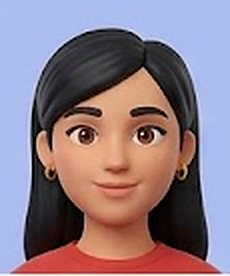
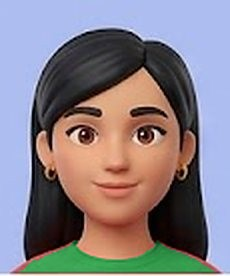
Simpler hair questions (one curly, one short), traits shown on zoom, Duaa shirt now green

Changed region(s): [[0.0609, 0.8696, 0.9435, 1.0]]

diff --git a/index.html b/index.html
@@ -458,6 +458,9 @@ html[lang="en"] .sweep b{font-family:'Baloo Bhaijaan 2',sans-serif;font-weight:8
 @keyframes sweepTxt{0%{transform:translateX(120px);opacity:0}25%{transform:translateX(0);opacity:1}72%{transform:translateX(-10px);opacity:1}100%{transform:translateX(-140px);opacity:0}}
 .fx{position:fixed;inset:0;width:100%;height:100%;z-index:70;pointer-events:none}
 @media (prefers-reduced-motion:reduce){.screen.enter,.spots i,.logo,#createBtn::after,.vs svg,.vs::before,.grid.dealing .card,.bump,.modal.on,.modal.on .sheet,.timer.low #timerNum{animation:none}.sweep{display:none}}
+.ztags{display:flex;flex-wrap:wrap;justify-content:center;gap:6px;margin:-4px 0 14px}
+.ztags:empty{display:none}
+.ztags span{background:var(--paper);border:2px solid var(--ink);border-radius:999px;padding:1px 10px;font-weight:700;font-size:.85rem}
 @media (prefers-reduced-motion:reduce){.card .in,.btn,.toast,.track i{transition:none}.pill.pop,.cf,.emo-fly,.splash-card,.log.flash{animation:none}.cf{display:none}}
 </style>
 </head>
@@ -621,6 +624,7 @@ html[lang="en"] .sweep b{font-family:'Baloo Bhaijaan 2',sans-serif;font-weight:8
 <div class="modal" id="zoomM"><div class="sheet center">
   <div class="zoom-face" id="zoomFace"></div>
   <h2 class="h2" id="zoomName"></h2>
+  <div class="ztags" id="zoomTags"></div>
   <button class="btn white" data-close data-i18n="close"></button>
 </div></div>
 
@@ -693,7 +697,7 @@ html[lang="en"] .sweep b{font-family:'Baloo Bhaijaan 2',sans-serif;font-weight:8
 <script>
 (() => {
 'use strict';
-const DECK = [{"s":"m","dark":false,"hj":false,"bald":true,"curly":false,"tied":false,"hc":"grey","e":"blue","gl":"square","beard":true,"mus":true,"cap":false,"ear":false,"frk":false,"sh":"yellow","n":["أحمد","Ahmad"],"wavy":false,"hl":"none"},{"s":"m","dark":true,"hj":false,"bald":true,"curly":false,"tied":false,"hc":null,"e":"brown","gl":"none","beard":false,"mus":false,"cap":false,"ear":false,"frk":false,"sh":"red","n":["محمود","Mahmoud"],"wavy":false,"hl":"none"},{"s":"f","dark":false,"hj":false,"bald":false,"curly":false,"tied":false,"hc":"grey","e":"blue","gl":"round","beard":false,"mus":false,"cap":false,"ear":false,"frk":false,"sh":"blue","n":["سارة","Sara"],"wavy":false,"hl":"mid"},{"s":"m","dark":true,"hj":false,"bald":false,"curly":true,"tied":false,"hc":"grey","e":"brown","gl":"none","beard":false,"mus":true,"cap":false,"ear":false,"frk":false,"sh":"green","n":["يوسف","Yousef"],"wavy":false,"hl":"short"},{"s":"m","dark":true,"hj":false,"bald":false,"curly":false,"tied":false,"hc":"black","e":"green","gl":"none","beard":false,"mus":true,"cap":false,"ear":false,"frk":false,"sh":"blue","n":["خالد","Khaled"],"wavy":false,"hl":"short"},{"s":"f","dark":true,"hj":true,"bald":false,"curly":false,"tied":false,"hc":null,"e":"brown","gl":"none","beard":false,"mus":false,"cap":false,"ear":false,"frk":false,"sh":"red","n":["ليلى","Layla"],"wavy":false,"hl":"none"},{"s":"f","dark":true,"hj":false,"bald":false,"curly":false,"tied":true,"hc":"black","e":"brown","gl":"none","beard":false,"mus":false,"cap":false,"ear":false,"frk":false,"sh":"yellow","n":["نور","Nour"],"wavy":false,"hl":"tied"},{"s":"m","dark":false,"hj":false,"bald":true,"curly":false,"tied":false,"hc":"grey","e":"green","gl":"square","beard":true,"mus":true,"cap":false,"ear":false,"frk":false,"sh":"green","n":["عمر","Omar"],"wavy":false,"hl":"none"},{"s":"m","dark":false,"hj":false,"bald":true,"curly":false,"tied":false,"hc":null,"e":"blue","gl":"none","beard":false,"mus":true,"cap":false,"ear":false,"frk":true,"sh":"green","n":["سامي","Sami"],"wavy":false,"hl":"none"},{"s":"m","dark":false,"hj":false,"bald":false,"curly":false,"tied":false,"hc":"blonde","e":"blue","gl":"none","beard":false,"mus":false,"cap":false,"ear":false,"frk":false,"sh":"red","n":["رامي","Rami"],"wavy":false,"hl":"short"},{"s":"m","dark":false,"hj":false,"bald":false,"curly":false,"tied":false,"hc":"black","e":"brown","gl":"none","beard":false,"mus":false,"cap":true,"ear":false,"frk":false,"sh":"green","n":["باسل","Basel"],"wavy":false,"hl":"short"},{"s":"f","dark":false,"hj":false,"bald":false,"curly":false,"tied":false,"hc":"blonde","e":"blue","gl":"none","beard":false,"mus":false,"cap":false,"ear":false,"frk":false,"sh":"green","n":["هبة","Hiba"],"wavy":false,"hl":"mid"},{"s":"f","dark":true,"hj":true,"bald":false,"curly":false,"tied":false,"hc":null,"e":"brown","gl":"none","beard":false,"mus":false,"cap":false,"ear":false,"frk":false,"sh":"blue","n":["ريم","Reem"],"wavy":false,"hl":"none"},{"s":"f","dark":false,"hj":false,"bald":false,"curly":false,"tied":false,"hc":"brown","e":"brown","gl":"none","beard":false,"mus":false,"cap":false,"ear":true,"frk":true,"sh":"red","n":["دانة","Dana"],"wavy":false,"hl":"long"},{"s":"m","dark":false,"hj":false,"bald":false,"curly":false,"tied":true,"hc":"black","e":"brown","gl":"none","beard":true,"mus":true,"cap":false,"ear":false,"frk":false,"sh":"blue","n":["فادي","Fadi"],"wavy":false,"hl":"tied"},{"s":"m","dark":false,"hj":false,"bald":false,"curly":true,"tied":false,"hc":"red","e":"green","gl":"none","beard":false,"mus":false,"cap":false,"ear":false,"frk":true,"sh":"blue","n":["زياد","Ziad"],"wavy":false,"hl":"short"},{"s":"f","dark":false,"hj":true,"bald":false,"curly":false,"tied":false,"hc":"grey","e":"blue","gl":"none","beard":false,"mus":false,"cap":false,"ear":false,"frk":false,"sh":"yellow","n":["لينا","Lina"],"wavy":false,"hl":"none"},{"s":"f","dark":true,"hj":false,"bald":false,"curly":false,"tied":true,"hc":"black","e":"green","gl":"none","beard":false,"mus":false,"cap":false,"ear":true,"frk":false,"sh":"blue","n":["مريم","Maryam"],"wavy":false,"hl":"long"},{"s":"f","dark":false,"hj":false,"bald":false,"curly":false,"tied":false,"hc":"black","e":"brown","gl":"none","beard":false,"mus":false,"cap":false,"ear":true,"frk":false,"sh":"red","n":["رنا","Rana"],"wavy":true,"hl":"long"},{"s":"m","dark":true,"hj":false,"bald":false,"curly":true,"tied":false,"hc":"black","e":"brown","gl":"square","beard":true,"mus":true,"cap":false,"ear":false,"frk":false,"sh":"red","n":["مازن","Mazen"],"wavy":false,"hl":"short"},{"s":"m","dark":false,"hj":false,"bald":false,"curly":false,"tied":false,"hc":"blonde","e":"green","gl":"round","beard":false,"mus":true,"cap":false,"ear":false,"frk":false,"sh":"green","n":["طارق","Tareq"],"wavy":false,"hl":"short"},{"s":"f","dark":false,"hj":true,"bald":false,"curly":false,"tied":false,"hc":null,"e":"blue","gl":"round","beard":false,"mus":false,"cap":false,"ear":false,"frk":false,"sh":"green","n":["سلمى","Salma"],"wavy":false,"hl":"none"},{"s":"f","dark":false,"hj":false,"bald":false,"curly":false,"tied":true,"hc":"red","e":"green","gl":"none","beard":false,"mus":false,"cap":false,"ear":true,"frk":true,"sh":"yellow","n":["جنى","Jana"],"wavy":false,"hl":"tied"},{"s":"f","dark":true,"hj":false,"bald":false,"curly":true,"tied":false,"hc":"black","e":"green","gl":"none","beard":false,"mus":false,"cap":false,"ear":true,"frk":false,"sh":"red","n":["هالة","Hala"],"wavy":false,"hl":"mid"},{"s":"f","dark":false,"hj":true,"bald":false,"curly":false,"tied":false,"hc":null,"e":"brown","gl":"none","beard":false,"mus":false,"cap":false,"ear":false,"frk":false,"sh":"yellow","n":["ياسمين","Yasmin"],"wavy":false,"hl":"none"},{"s":"f","dark":false,"hj":false,"bald":false,"curly":true,"tied":false,"hc":"red","e":"green","gl":"none","beard":false,"mus":false,"cap":false,"ear":true,"frk":true,"sh":"green","n":["رهف","Rahaf"],"wavy":false,"hl":"mid"},{"s":"m","dark":false,"hj":false,"bald":false,"curly":true,"tied":false,"hc":"grey","e":"blue","gl":"round","beard":true,"mus":true,"cap":false,"ear":false,"frk":false,"sh":"yellow","n":["نادر","Nader"],"wavy":false,"hl":"short"},{"s":"f","dark":false,"hj":false,"bald":false,"curly":false,"tied":false,"hc":"black","e":"brown","gl":"none","beard":false,"mus":false,"cap":false,"ear":true,"frk":false,"sh":"red","n":["دعاء","Duaa"],"wavy":false,"hl":"long"},{"s":"f","dark":false,"hj":false,"bald":false,"curly":false,"tied":false,"hc":"brown","e":"brown","gl":"round","beard":false,"mus":false,"cap":false,"ear":true,"frk":false,"sh":"blue","n":["آية","Aya"],"wavy":false,"hl":"mid"},{"s":"m","dark":false,"hj":false,"bald":false,"curly":false,"tied":false,"hc":"grey","e":"blue","gl":"none","beard":true,"mus":true,"cap":false,"ear":false,"frk":false,"sh":"blue","n":["وسيم","Wasim"],"wavy":false,"hl":"short"},{"s":"m","dark":false,"hj":false,"bald":false,"curly":true,"tied":false,"hc":"brown","e":"brown","gl":"round","beard":true,"mus":true,"cap":false,"ear":false,"frk":false,"sh":"red","n":["هاني","Hani"],"wavy":false,"hl":"short"},{"s":"m","dark":true,"hj":false,"bald":false,"curly":false,"tied":false,"hc":"black","e":"brown","gl":"none","beard":false,"mus":false,"cap":true,"ear":false,"frk":false,"sh":"yellow","n":["إياد","Iyad"],"wavy":false,"hl":"short"},{"s":"m","dark":false,"hj":false,"bald":false,"curly":false,"tied":false,"hc":"blonde","e":"blue","gl":"none","beard":true,"mus":true,"cap":false,"ear":false,"frk":false,"sh":"red","n":["كريم","Karim"],"wavy":false,"hl":"short"},{"s":"f","dark":false,"hj":false,"bald":false,"curly":false,"tied":true,"hc":"red","e":"blue","gl":"none","beard":false,"mus":false,"cap":false,"ear":true,"frk":true,"sh":"blue","n":["منى","Mona"],"wavy":false,"hl":"long"},{"s":"m","dark":false,"hj":false,"bald":false,"curly":false,"tied":false,"hc":"grey","e":"blue","gl":"square","beard":true,"mus":true,"cap":false,"ear":false,"frk":false,"sh":"yellow","n":["سليم","Salim"],"wavy":false,"hl":"short"},{"s":"f","dark":false,"hj":false,"bald":false,"curly":false,"tied":false,"hc":"brown","e":"brown","gl":"none","beard":false,"mus":false,"cap":false,"ear":true,"frk":false,"sh":"green","n":["سماح","Samah"],"wavy":false,"hl":"mid"},{"s":"f","dark":false,"hj":false,"bald":false,"curly":false,"tied":true,"hc":"grey","e":"blue","gl":"round","beard":false,"mus":false,"cap":false,"ear":true,"frk":false,"sh":"blue","n":["لمى","Lama"],"wavy":false,"hl":"tied"},{"s":"f","dark":false,"hj":false,"bald":false,"curly":false,"tied":false,"hc":"black","e":"brown","gl":"none","beard":false,"mus":false,"cap":false,"ear":true,"frk":false,"sh":"blue","n":["تالا","Tala"],"wavy":false,"hl":"long"},{"s":"m","dark":false,"hj":false,"bald":false,"curly":false,"tied":false,"hc":"brown","e":"brown","gl":"none","beard":true,"mus":true,"cap":false,"ear":false,"frk":false,"sh":"red","n":["جمال","Jamal"],"wavy":false,"hl":"short"},{"s":"f","dark":false,"hj":false,"bald":false,"curly":false,"tied":true,"hc":"red","e":"green","gl":"none","beard":false,"mus":false,"cap":false,"ear":true,"frk":true,"sh":"red","n":["رزان","Razan"],"wavy":false,"hl":"tied"},{"s":"f","dark":false,"hj":false,"bald":false,"curly":false,"tied":false,"hc":"grey","e":"brown","gl":"none","beard":false,"mus":false,"cap":false,"ear":true,"frk":true,"sh":"green","n":["شهد","Shahd"],"wavy":false,"hl":"short"},{"s":"m","dark":false,"hj":false,"bald":false,"curly":false,"tied":false,"hc":"grey","e":"blue","gl":"round","beard":false,"mus":false,"cap":false,"ear":false,"frk":false,"sh":"red","n":["ماهر","Maher"],"wavy":false,"hl":"short"},{"s":"m","dark":false,"hj":false,"bald":false,"curly":false,"tied":false,"hc":"brown","e":"brown","gl":"none","beard":true,"mus":true,"cap":false,"ear":false,"frk":false,"sh":"yellow","n":["حسن","Hasan"],"wavy":false,"hl":"short"},{"s":"m","dark":true,"hj":false,"bald":false,"curly":false,"tied":false,"hc":"black","e":"brown","gl":"none","beard":false,"mus":false,"cap":false,"ear":false,"frk":false,"sh":"red","n":["علي","Ali"],"wavy":false,"hl":"short"},{"s":"m","dark":false,"hj":false,"bald":false,"curly":false,"tied":false,"hc":"brown","e":"brown","gl":"none","beard":false,"mus":false,"cap":false,"ear":false,"frk":true,"sh":"red","n":["بلال","Bilal"],"wavy":false,"hl":"short"},{"s":"f","dark":true,"hj":true,"bald":false,"curly":false,"tied":false,"hc":null,"e":"blue","gl":"none","beard":false,"mus":false,"cap":false,"ear":false,"frk":false,"sh":"blue","n":["غدير","Ghadeer"],"wavy":false,"hl":"none"},{"s":"m","dark":false,"hj":false,"bald":false,"curly":false,"tied":false,"hc":"grey","e":"brown","gl":"none","beard":true,"mus":true,"cap":false,"ear":false,"frk":true,"sh":"red","n":["أنس","Anas"],"wavy":false,"hl":"short"},{"s":"f","dark":false,"hj":false,"bald":false,"curly":false,"tied":false,"hc":"grey","e":"blue","gl":"round","beard":false,"mus":false,"cap":false,"ear":true,"frk":false,"sh":"yellow","n":["بيسان","Bisan"],"wavy":true,"hl":"mid"}];
+const DECK = [{"s":"m","dark":false,"hj":false,"bald":true,"curly":false,"tied":false,"hc":"grey","e":"blue","gl":"square","beard":true,"mus":true,"cap":false,"ear":false,"frk":false,"sh":"yellow","n":["أحمد","Ahmad"],"short":false},{"s":"m","dark":true,"hj":false,"bald":true,"curly":false,"tied":false,"hc":null,"e":"brown","gl":"none","beard":false,"mus":false,"cap":false,"ear":false,"frk":false,"sh":"red","n":["محمود","Mahmoud"],"short":false},{"s":"f","dark":false,"hj":false,"bald":false,"curly":false,"tied":false,"hc":"grey","e":"blue","gl":"round","beard":false,"mus":false,"cap":false,"ear":false,"frk":false,"sh":"blue","n":["سارة","Sara"],"short":false},{"s":"m","dark":true,"hj":false,"bald":false,"curly":true,"tied":false,"hc":"grey","e":"brown","gl":"none","beard":false,"mus":true,"cap":false,"ear":false,"frk":false,"sh":"green","n":["يوسف","Yousef"],"short":true},{"s":"m","dark":true,"hj":false,"bald":false,"curly":false,"tied":false,"hc":"black","e":"green","gl":"none","beard":false,"mus":true,"cap":false,"ear":false,"frk":false,"sh":"blue","n":["خالد","Khaled"],"short":true},{"s":"f","dark":true,"hj":true,"bald":false,"curly":false,"tied":false,"hc":null,"e":"brown","gl":"none","beard":false,"mus":false,"cap":false,"ear":false,"frk":false,"sh":"red","n":["ليلى","Layla"],"short":false},{"s":"f","dark":true,"hj":false,"bald":false,"curly":false,"tied":true,"hc":"black","e":"brown","gl":"none","beard":false,"mus":false,"cap":false,"ear":false,"frk":false,"sh":"yellow","n":["نور","Nour"],"short":false},{"s":"m","dark":false,"hj":false,"bald":true,"curly":false,"tied":false,"hc":"grey","e":"green","gl":"square","beard":true,"mus":true,"cap":false,"ear":false,"frk":false,"sh":"green","n":["عمر","Omar"],"short":false},{"s":"m","dark":false,"hj":false,"bald":true,"curly":false,"tied":false,"hc":null,"e":"blue","gl":"none","beard":false,"mus":true,"cap":false,"ear":false,"frk":true,"sh":"green","n":["سامي","Sami"],"short":false},{"s":"m","dark":false,"hj":false,"bald":false,"curly":false,"tied":false,"hc":"blonde","e":"blue","gl":"none","beard":false,"mus":false,"cap":false,"ear":false,"frk":false,"sh":"red","n":["رامي","Rami"],"short":true},{"s":"m","dark":false,"hj":false,"bald":false,"curly":false,"tied":false,"hc":"black","e":"brown","gl":"none","beard":false,"mus":false,"cap":true,"ear":false,"frk":false,"sh":"green","n":["باسل","Basel"],"short":true},{"s":"f","dark":false,"hj":false,"bald":false,"curly":false,"tied":false,"hc":"blonde","e":"blue","gl":"none","beard":false,"mus":false,"cap":false,"ear":false,"frk":false,"sh":"green","n":["هبة","Hiba"],"short":false},{"s":"f","dark":true,"hj":true,"bald":false,"curly":false,"tied":false,"hc":null,"e":"brown","gl":"none","beard":false,"mus":false,"cap":false,"ear":false,"frk":false,"sh":"blue","n":["ريم","Reem"],"short":false},{"s":"f","dark":false,"hj":false,"bald":false,"curly":false,"tied":false,"hc":"brown","e":"brown","gl":"none","beard":false,"mus":false,"cap":false,"ear":true,"frk":true,"sh":"red","n":["دانة","Dana"],"short":false},{"s":"m","dark":false,"hj":false,"bald":false,"curly":false,"tied":true,"hc":"black","e":"brown","gl":"none","beard":true,"mus":true,"cap":false,"ear":false,"frk":false,"sh":"blue","n":["فادي","Fadi"],"short":false},{"s":"m","dark":false,"hj":false,"bald":false,"curly":true,"tied":false,"hc":"red","e":"green","gl":"none","beard":false,"mus":false,"cap":false,"ear":false,"frk":true,"sh":"blue","n":["زياد","Ziad"],"short":true},{"s":"f","dark":false,"hj":true,"bald":false,"curly":false,"tied":false,"hc":"grey","e":"blue","gl":"none","beard":false,"mus":false,"cap":false,"ear":false,"frk":false,"sh":"yellow","n":["لينا","Lina"],"short":false},{"s":"f","dark":true,"hj":false,"bald":false,"curly":false,"tied":true,"hc":"black","e":"green","gl":"none","beard":false,"mus":false,"cap":false,"ear":true,"frk":false,"sh":"blue","n":["مريم","Maryam"],"short":false},{"s":"f","dark":false,"hj":false,"bald":false,"curly":false,"tied":false,"hc":"black","e":"brown","gl":"none","beard":false,"mus":false,"cap":false,"ear":true,"frk":false,"sh":"red","n":["رنا","Rana"],"short":false},{"s":"m","dark":true,"hj":false,"bald":false,"curly":true,"tied":false,"hc":"black","e":"brown","gl":"square","beard":true,"mus":true,"cap":false,"ear":false,"frk":false,"sh":"red","n":["مازن","Mazen"],"short":true},{"s":"m","dark":false,"hj":false,"bald":false,"curly":false,"tied":false,"hc":"blonde","e":"green","gl":"round","beard":false,"mus":true,"cap":false,"ear":false,"frk":false,"sh":"green","n":["طارق","Tareq"],"short":true},{"s":"f","dark":false,"hj":true,"bald":false,"curly":false,"tied":false,"hc":null,"e":"blue","gl":"round","beard":false,"mus":false,"cap":false,"ear":false,"frk":false,"sh":"green","n":["سلمى","Salma"],"short":false},{"s":"f","dark":false,"hj":false,"bald":false,"curly":false,"tied":true,"hc":"red","e":"green","gl":"none","beard":false,"mus":false,"cap":false,"ear":true,"frk":true,"sh":"yellow","n":["جنى","Jana"],"short":false},{"s":"f","dark":true,"hj":false,"bald":false,"curly":true,"tied":false,"hc":"black","e":"green","gl":"none","beard":false,"mus":false,"cap":false,"ear":true,"frk":false,"sh":"red","n":["هالة","Hala"],"short":false},{"s":"f","dark":false,"hj":true,"bald":false,"curly":false,"tied":false,"hc":null,"e":"brown","gl":"none","beard":false,"mus":false,"cap":false,"ear":false,"frk":false,"sh":"yellow","n":["ياسمين","Yasmin"],"short":false},{"s":"f","dark":false,"hj":false,"bald":false,"curly":true,"tied":false,"hc":"red","e":"green","gl":"none","beard":false,"mus":false,"cap":false,"ear":true,"frk":true,"sh":"green","n":["رهف","Rahaf"],"short":false},{"s":"m","dark":false,"hj":false,"bald":false,"curly":true,"tied":false,"hc":"grey","e":"blue","gl":"round","beard":true,"mus":true,"cap":false,"ear":false,"frk":false,"sh":"yellow","n":["نادر","Nader"],"short":true},{"s":"f","dark":false,"hj":false,"bald":false,"curly":false,"tied":false,"hc":"black","e":"brown","gl":"none","beard":false,"mus":false,"cap":false,"ear":true,"frk":false,"sh":"green","n":["دعاء","Duaa"],"short":false},{"s":"f","dark":false,"hj":false,"bald":false,"curly":false,"tied":false,"hc":"brown","e":"brown","gl":"round","beard":false,"mus":false,"cap":false,"ear":true,"frk":false,"sh":"blue","n":["آية","Aya"],"short":false},{"s":"m","dark":false,"hj":false,"bald":false,"curly":false,"tied":false,"hc":"grey","e":"blue","gl":"none","beard":true,"mus":true,"cap":false,"ear":false,"frk":false,"sh":"blue","n":["وسيم","Wasim"],"short":true},{"s":"m","dark":false,"hj":false,"bald":false,"curly":true,"tied":false,"hc":"brown","e":"brown","gl":"round","beard":true,"mus":true,"cap":false,"ear":false,"frk":false,"sh":"red","n":["هاني","Hani"],"short":true},{"s":"m","dark":true,"hj":false,"bald":false,"curly":false,"tied":false,"hc":"black","e":"brown","gl":"none","beard":false,"mus":false,"cap":true,"ear":false,"frk":false,"sh":"yellow","n":["إياد","Iyad"],"short":true},{"s":"m","dark":false,"hj":false,"bald":false,"curly":false,"tied":false,"hc":"blonde","e":"blue","gl":"none","beard":true,"mus":true,"cap":false,"ear":false,"frk":false,"sh":"red","n":["كريم","Karim"],"short":true},{"s":"f","dark":false,"hj":false,"bald":false,"curly":false,"tied":true,"hc":"red","e":"blue","gl":"none","beard":false,"mus":false,"cap":false,"ear":true,"frk":true,"sh":"blue","n":["منى","Mona"],"short":false},{"s":"m","dark":false,"hj":false,"bald":false,"curly":false,"tied":false,"hc":"grey","e":"blue","gl":"square","beard":true,"mus":true,"cap":false,"ear":false,"frk":false,"sh":"yellow","n":["سليم","Salim"],"short":true},{"s":"f","dark":false,"hj":false,"bald":false,"curly":false,"tied":false,"hc":"brown","e":"brown","gl":"none","beard":false,"mus":false,"cap":false,"ear":true,"frk":false,"sh":"green","n":["سماح","Samah"],"short":false},{"s":"f","dark":false,"hj":false,"bald":false,"curly":false,"tied":true,"hc":"grey","e":"blue","gl":"round","beard":false,"mus":false,"cap":false,"ear":true,"frk":false,"sh":"blue","n":["لمى","Lama"],"short":false},{"s":"f","dark":false,"hj":false,"bald":false,"curly":false,"tied":false,"hc":"black","e":"brown","gl":"none","beard":false,"mus":false,"cap":false,"ear":true,"frk":false,"sh":"blue","n":["تالا","Tala"],"short":false},{"s":"m","dark":false,"hj":false,"bald":false,"curly":false,"tied":false,"hc":"brown","e":"brown","gl":"none","beard":true,"mus":true,"cap":false,"ear":false,"frk":false,"sh":"red","n":["جمال","Jamal"],"short":true},{"s":"f","dark":false,"hj":false,"bald":false,"curly":false,"tied":true,"hc":"red","e":"green","gl":"none","beard":false,"mus":false,"cap":false,"ear":true,"frk":true,"sh":"red","n":["رزان","Razan"],"short":false},{"s":"f","dark":false,"hj":false,"bald":false,"curly":false,"tied":false,"hc":"grey","e":"brown","gl":"none","beard":false,"mus":false,"cap":false,"ear":true,"frk":true,"sh":"green","n":["شهد","Shahd"],"short":true},{"s":"m","dark":false,"hj":false,"bald":false,"curly":false,"tied":false,"hc":"grey","e":"blue","gl":"round","beard":false,"mus":false,"cap":false,"ear":false,"frk":false,"sh":"red","n":["ماهر","Maher"],"short":true},{"s":"m","dark":false,"hj":false,"bald":false,"curly":false,"tied":false,"hc":"brown","e":"brown","gl":"none","beard":true,"mus":true,"cap":false,"ear":false,"frk":false,"sh":"yellow","n":["حسن","Hasan"],"short":true},{"s":"m","dark":true,"hj":false,"bald":false,"curly":false,"tied":false,"hc":"black","e":"brown","gl":"none","beard":false,"mus":false,"cap":false,"ear":false,"frk":false,"sh":"red","n":["علي","Ali"],"short":true},{"s":"m","dark":false,"hj":false,"bald":false,"curly":false,"tied":false,"hc":"brown","e":"brown","gl":"none","beard":false,"mus":false,"cap":false,"ear":false,"frk":true,"sh":"red","n":["بلال","Bilal"],"short":true},{"s":"f","dark":true,"hj":true,"bald":false,"curly":false,"tied":false,"hc":null,"e":"blue","gl":"none","beard":false,"mus":false,"cap":false,"ear":false,"frk":false,"sh":"blue","n":["غدير","Ghadeer"],"short":false},{"s":"m","dark":false,"hj":false,"bald":false,"curly":false,"tied":false,"hc":"grey","e":"brown","gl":"none","beard":true,"mus":true,"cap":false,"ear":false,"frk":true,"sh":"red","n":["أنس","Anas"],"short":true},{"s":"f","dark":false,"hj":false,"bald":false,"curly":false,"tied":false,"hc":"grey","e":"blue","gl":"round","beard":false,"mus":false,"cap":false,"ear":true,"frk":false,"sh":"yellow","n":["بيسان","Bisan"],"short":false}];
 const FACES = Array.from({length:48}, (_, i) => 'faces/' + i + '.webp');
 const STR = {
 ar: {
@@ -812,11 +816,8 @@ const QS = [
   {id:'hj', g:'who', ar:'لابسة حجاب؟', en:'Wearing a hijab?', f:c=>c.hj},
   {id:'cap', g:'clothes', ar:'لابس طاقية؟', en:'Wearing a cap?', f:c=>c.cap},
   {id:'bald', g:'hair', ar:'أصلع؟', en:'Bald?', f:c=>c.bald},
-  {id:'short', g:'hair', ar:'شعره قصير (فوق رقبته)؟', en:'Short hair (above the neck)?', f:c=>c.hl==='short'},
-  {id:'mid', g:'hair', ar:'شعره متوسط (لحد رقبته أو كتافه)؟', en:'Medium hair (neck to shoulders)?', f:c=>c.hl==='mid'},
-  {id:'long', g:'hair', ar:'شعره طويل (نازل تحت كتافه)؟', en:'Long hair (below the shoulders)?', f:c=>c.hl==='long'},
-  {id:'curly', g:'hair', ar:'شعره كيرلي (مجعّد كثير)؟', en:'Curly hair (tight curls)?', f:c=>c.curly},
-  {id:'wavy', g:'hair', ar:'شعره مموّج (ويفي)؟', en:'Wavy hair?', f:c=>c.wavy},
+  {id:'short', g:'hair', ar:'شعره قصير (قصّة قصيرة زي الشباب)؟', en:'Short hair (a short cut)?', f:c=>c.short},
+  {id:'curly', g:'hair', ar:'شعره كيرلي؟', en:'Curly hair?', f:c=>c.curly},
   {id:'tied', g:'hair', ar:'شعره مربوط (كعكة أو جدايل)؟', en:'Hair tied up (bun or braids)?', f:c=>c.tied},
   {id:'h_black', g:'hair', ar:'شعره أسود؟', en:'Black hair?', f:c=>c.hc==='black'},
   {id:'h_brown', g:'hair', ar:'شعره بني؟', en:'Brown hair?', f:c=>c.hc==='brown'},
@@ -1690,7 +1691,17 @@ function makeCard(id){
   el.innerHTML = `<span class="in"><span class="face">${faceImg(id)}<span class="nm">${esc(dn(id))}</span></span><span class="back"><span>؟</span></span></span>`;
   return el;
 }
-function zoom(id){ $('#zoomFace').classList.remove('st-wrap'); $('#zoomFace').innerHTML = faceImg(id); $('#zoomName').textContent = dn(id); openM('zoomM'); }
+const TAGL = {man:['رجل','Man'], dark:['بشرة سمرا','Dark skin'], hj:['حجاب','Hijab'], cap:['طاقية','Cap'], bald:['أصلع','Bald'], short:['شعر قصير','Short hair'],
+  curly:['كيرلي','Curly'], tied:['شعر مربوط','Hair tied'], h_black:['شعر أسود','Black hair'], h_brown:['شعر بني','Brown hair'], h_blonde:['شعر أشقر','Blonde hair'],
+  h_red:['شعر أحمر','Red hair'], h_grey:['شعر رمادي','Grey hair'], e_brown:['عيون بنية','Brown eyes'], e_blue:['عيون زرقا','Blue eyes'], e_green:['عيون خضرا','Green eyes'],
+  gl_round:['نظارة مدوّرة','Round glasses'], gl_square:['نظارة مربعة','Square glasses'], beard:['لحية','Beard'], mus:['شنب','Mustache'], frk:['نمش','Freckles'],
+  ear:['حلق','Earrings'], sh_red:['بلوزة حمرا','Red shirt'], sh_blue:['بلوزة زرقا','Blue shirt'], sh_green:['بلوزة خضرا','Green shirt'], sh_yellow:['بلوزة صفرا','Yellow shirt']};
+function traitTags(id){
+  const c = DECK[id], L = lang === 'ar' ? 0 : 1, out = c.s === 'f' ? [lang === 'ar' ? 'امرأة' : 'Woman'] : [];
+  QS.forEach(q => { if (TAGL[q.id] && q.f(c)) out.push(TAGL[q.id][L]); });
+  return out.map(x => `<span>${esc(x)}</span>`).join('');
+}
+function zoom(id){ $('#zoomFace').classList.remove('st-wrap'); $('#zoomFace').innerHTML = faceImg(id); $('#zoomName').textContent = dn(id); $('#zoomTags').innerHTML = traitTags(id); openM('zoomM'); }
 function bindGrid(grid, onTap){
   let timer = null, longFired = false, sx = 0, sy = 0;
   grid.addEventListener('pointerdown', e => {
@@ -2583,7 +2594,7 @@ function hintText(h){
 }
 function showFootCard(id){
   const z = $('#zoomFace'); z.classList.add('st-wrap'); z.innerHTML = sticker(id);
-  $('#zoomName').textContent = ''; openM('zoomM');
+  $('#zoomName').textContent = ''; $('#zoomTags').innerHTML = ''; openM('zoomM');
 }
 function renderGt(){
   const btns = g => `<button type="button" data-gt="faces" aria-pressed="${g === 'faces'}">${esc(t('gtFaces'))}<small>${esc(t('gtFacesSub'))}</small></button>`

diff --git a/sw.js b/sw.js
@@ -1,5 +1,5 @@
 // لقيتك! service worker: works offline for vs-computer games
-const CACHE = 'laqeetak-v4';
+const CACHE = 'laqeetak-v5';
 const FONTS = ['lalezar-arabic-400','lalezar-latin-400'].concat([400,600,800].flatMap(w => ['arabic','latin'].map(x => 'baloo-bhaijaan-2-' + x + '-' + w))).map(f => './fonts/' + f + '-normal.woff2');
 const CORE = ['./', './index.html', './manifest.webmanifest', './icon2-192.png', './icon2-512.png', './apple-touch-icon2.png', './lib/peerjs.min.js']
   .concat(FONTS, Array.from({length:48}, (_, i) => './faces/' + i + '.webp'));
